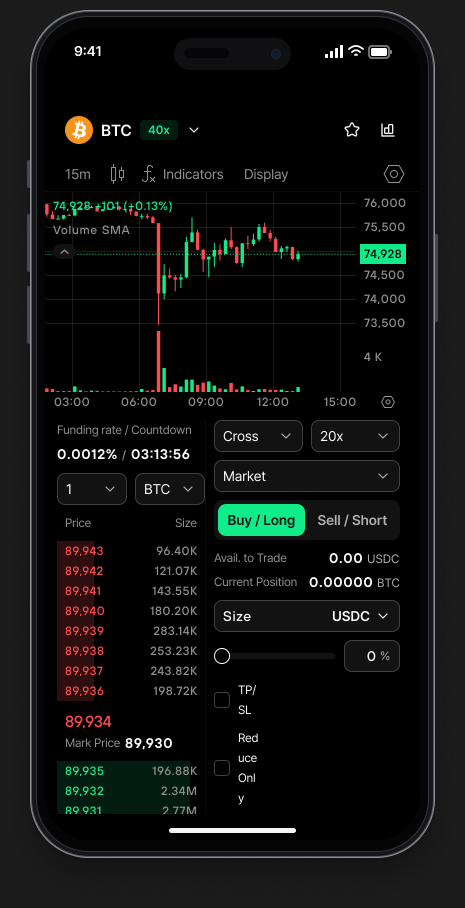
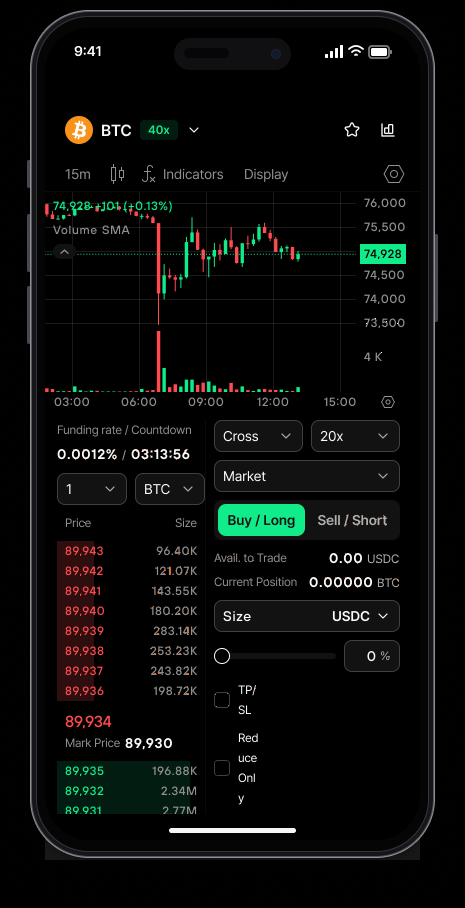
Get started: phones take turns in one spot; fix the order mockup background
- Home and order phones now share one centred spot and loop: each rises out
  of the dark, scrolls its screen, then exits by playing the entrance in
  reverse before the other phone comes in (25s loop)
- Order mockup rebuilt on the black-background phone body (its Figma frame
  has a #1B1B1B fill that showed as a grey box)

Changed region(s): [[0.0, 0.0, 1.0, 1.0]]

diff --git a/assets/js/landing.js b/assets/js/landing.js
@@ -380,47 +380,54 @@
     } else play();
   })();
 
-  /* Get started: two app mockups (home, order) come up out of the dark, then their screens scroll by themselves
-     (ohayo-motion: time-driven, out / in-out, 0.5s beats).
-       0-1.5s   each phone rises from 120px below, tipped back ~38deg with a slight turn and roll (the right one
-                mirrored), and settles flat under perspective; its brightness ramps from black. Order phone +150ms.
-       1.0-1.5s the dark layer over each display lifts: the screen "wakes" after the body has emerged
-       then     a beat later each feed scrolls like a finger flick (in-out) through its own keyframes and repeats
-                every 12.5s; the order phone runs half a beat behind so the two never move in lockstep
-     Starts once the section scrolls in and only runs while it is on screen; reduced motion shows the tops, still. */
+  /* Get started: two app mockups (home, order) take turns in one spot (ohayo-motion: time-driven, out / in-out).
+     Each phone's 12.5s turn:
+       0-1.5s    it rises out of the dark, tipped back ~38deg with a slight turn and roll, settling flat; the screen
+                 "wakes" over 1.0-1.5s
+       2.5-11s   its feed scrolls like a finger flick (in-out): down to the first stop, pause, down to the end, pause
+       11-12.5s  the entrance plays in reverse: the screen dims, the phone tips back and sinks into the dark
+     Then the other phone takes its turn (home -> order -> home ...), forever. The clock only runs while the section
+     is on screen; reduced motion shows the home phone, still. */
   (function () {
     var sec = document.getElementById('start');
     if (!sec) return;
     var clamp = function (x) { return x < 0 ? 0 : x > 1 ? 1 : x; };
     var out = function (x) { return 1 - Math.pow(1 - x, 3); };
     var inOut = function (x) { return x < 0.5 ? 4 * x * x * x : 1 - Math.pow(-2 * x + 2, 3) / 2; };
-    var END = 1500, LEAD = 1000, CYCLE = 12500;
-    /* scroll keyframes per screen: [ms in cycle, 0..1 of the scrollable range] */
+    var IN = 1500, SCROLL = 2500, EXIT = 11000, TURN = 12500;
+    /* scroll keyframes within a turn, from SCROLL: [ms, 0..1 of the scrollable range] */
     var KEYS = {
-      home: [[0, 0], [2500, 0.42], [4000, 0.42], [6500, 1], [8500, 1], [10500, 0], [12500, 0]],          /* Tournament, Markets */
-      order: [[0, 0], [2500, 0.62], [4000, 0.62], [6500, 1], [8500, 1], [10500, 0], [12500, 0]]          /* order form, balances */
+      home: [[0, 0], [2500, 0.42], [4000, 0.42], [6500, 1], [8500, 1]],      /* Tournament, then Markets */
+      order: [[0, 0], [2500, 0.62], [4000, 0.62], [6500, 1], [8500, 1]]     /* order form, then balances */
     };
     var phones = [].map.call(sec.querySelectorAll('.st-mock'), function (m, k) {
-      return { body: m.querySelector('.st-phone'), scr: m.querySelector('.st-screen'), feed: m.querySelector('.st-feed'), win: m.querySelector('.st-feedwin'),
-        keys: KEYS[m.getAttribute('data-mock')] || KEYS.home, delay: k * 150, scrollDelay: k * 250, mirror: k % 2 ? -1 : 1 };
+      return { el: m, body: m.querySelector('.st-phone'), scr: m.querySelector('.st-screen'), feed: m.querySelector('.st-feed'), win: m.querySelector('.st-feedwin'),
+        keys: KEYS[m.getAttribute('data-mock')] || KEYS.home, mirror: k % 2 ? -1 : 1 };
     });
     function scrollAt(keys, c) {
+      if (c <= 0) return 0;
       for (var k = 1; k < keys.length; k++) if (c <= keys[k][0]) {
         var a = keys[k - 1], b = keys[k]; return a[1] + (b[1] - a[1]) * inOut((c - a[0]) / (b[0] - a[0]));
       }
-      return 0;
+      return keys[keys.length - 1][1];
+    }
+    function pose(p, e) {                                                   /* e = entrance time 0..IN (exit = e reversed) */
+      var m = inOut(clamp(e / IN)), lit = out(clamp(e / 1250)), wake = out(clamp((e - 1000) / 500)), s = p.mirror;
+      p.body.style.transform = 'translateY(' + (120 * (1 - m)).toFixed(1) + 'px) rotateX(' + (38 * (1 - m)).toFixed(2) + 'deg) rotateY(' + (-14 * s * (1 - m)).toFixed(2) + 'deg) rotateZ(' + (5 * s * (1 - m)).toFixed(2) + 'deg) scale(' + (0.9 + 0.1 * m).toFixed(4) + ')';
+      p.body.style.filter = lit < 1 ? 'brightness(' + lit.toFixed(3) + ')' : 'none';
+      p.scr.style.opacity = (0.92 * (1 - wake)).toFixed(3);
     }
     function render(T) {
-      phones.forEach(function (p) {
-        var t = T - p.delay, m = inOut(clamp(t / 1500)), lit = out(clamp(t / 1250)), wake = out(clamp((t - 1000) / 500)), s = p.mirror;
-        p.body.style.transform = 'translateY(' + (120 * (1 - m)).toFixed(1) + 'px) rotateX(' + (38 * (1 - m)).toFixed(2) + 'deg) rotateY(' + (-14 * s * (1 - m)).toFixed(2) + 'deg) rotateZ(' + (5 * s * (1 - m)).toFixed(2) + 'deg) scale(' + (0.9 + 0.1 * m).toFixed(4) + ')';
-        p.body.style.filter = lit < 1 ? 'brightness(' + lit.toFixed(3) + ')' : 'none';
-        p.scr.style.opacity = (0.92 * (1 - wake)).toFixed(3);
-        var range = p.feed.offsetHeight - p.win.offsetHeight, ts = t - END - LEAD - p.scrollDelay;
-        p.feed.style.transform = 'translateY(' + (-(ts > 0 ? scrollAt(p.keys, ts % CYCLE) : 0) * range).toFixed(1) + 'px)';
+      var cyc = T % (TURN * phones.length), turn = Math.floor(cyc / TURN), t = cyc - turn * TURN;
+      phones.forEach(function (p, k) {
+        if (k !== turn) { p.el.style.visibility = 'hidden'; return; }
+        p.el.style.visibility = 'visible';
+        pose(p, t < EXIT ? Math.min(t, IN) : TURN - t);                    /* in, hold, then the same path backwards */
+        var range = p.feed.offsetHeight - p.win.offsetHeight;
+        p.feed.style.transform = 'translateY(' + (-scrollAt(p.keys, t - SCROLL) * range).toFixed(1) + 'px)';
       });
     }
-    if (noMotion || !('IntersectionObserver' in window)) { render(END + 400); return; }
+    if (noMotion || !('IntersectionObserver' in window)) { render(IN); return; }
     render(0);
     /* a pausable clock: it only advances while the section is on screen */
     var raf = null, acc = 0, last = 0;

diff --git a/assets/css/landing.css b/assets/css/landing.css
@@ -672,10 +672,10 @@ label.check small { color: var(--fg-muted); margin-left: auto; font-family: var(
 /* Get started (Figma 45:8985): the app mockup sits centred above the content; the eyebrow and heading start just
    above the phone's bottom edge. The export includes the phone's shadow margin (465 x 908 for a 411 x 848 phone).
    Content starts 91.2% of the way down the image (y858 in a 1236px frame), 60px below the cards. */
-#start { --mock-w: min(372px, 44vw); /* 80% of the Figma size (465px export); two phones side by side */ position: relative; overflow: clip; --mock-h: calc(var(--mock-w) * 908 / 465); padding: calc(160px + var(--mock-h) * 848 / 908 + 64px) 0 60px; } /* 160px above the phone body, 64px between the phone and the content */
+#start { --mock-w: min(372px, 68vw); /* 80% of the Figma size (465px export) */ position: relative; overflow: clip; --mock-h: calc(var(--mock-w) * 908 / 465); padding: calc(160px + var(--mock-h) * 848 / 908 + 64px) 0 60px; } /* 160px above the phone body, 64px between the phone and the content */
 #start > .wrap { position: relative; z-index: 1; }
-.st-mocks { position: absolute; left: 0; right: 0; top: calc(160px - var(--mock-h) * 30 / 908); display: flex; justify-content: center; gap: clamp(16px, 4vw, 72px); pointer-events: none; z-index: 0; }
-.st-mock { position: relative; width: var(--mock-w); flex: none; perspective: 1600px; }
+.st-mocks { position: absolute; left: 0; right: 0; top: calc(160px - var(--mock-h) * 30 / 908); display: grid; justify-content: center; pointer-events: none; z-index: 0; } /* the phones share one spot and take turns */
+.st-mock { grid-area: 1 / 1; position: relative; width: var(--mock-w); perspective: 1600px; visibility: hidden; }
 .st-phone { position: relative; transform-origin: 50% 85%; will-change: transform, filter; }
 .st-phone img { display: block; width: 100%; height: auto; }
 /* the display area (screen inset in the export), darkened until the phone "wakes" */
